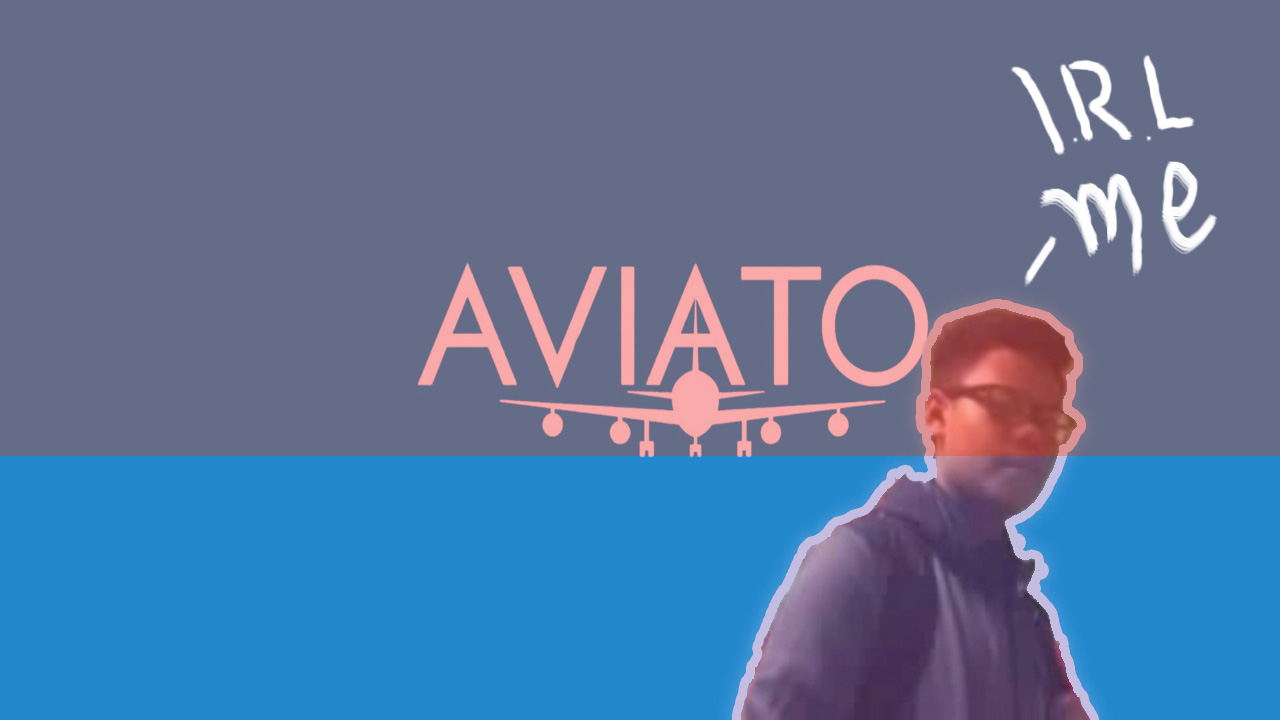
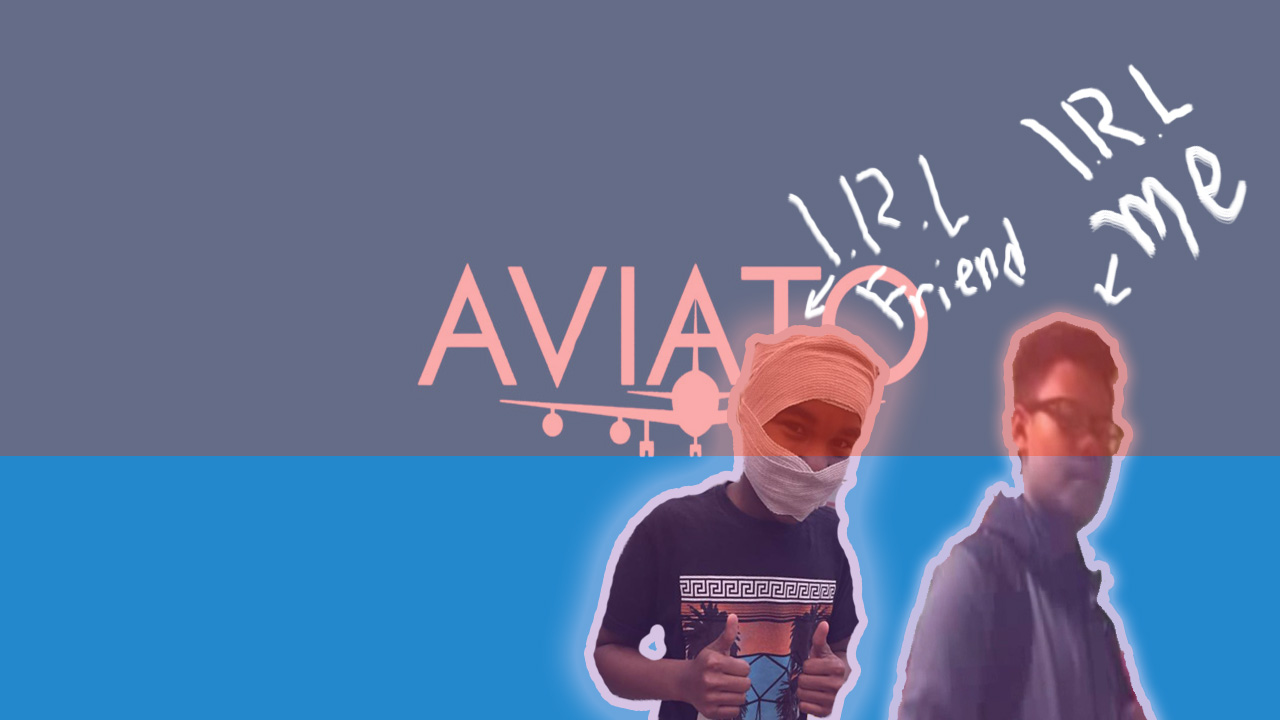
added kelli in bgbackground
also testing jquery

Changed region(s): [[0.4375, 0.0611, 1.0, 1.0]]

diff --git a/JQuery.js b/JQuery.js
@@ -1,2 +1,10 @@
 //need ideas
 //wanna go for a darker theme?
+//nah
+
+
+ $("#project").click(function(){
+    alert("The paragraph was clicked.");
+});
+
+
